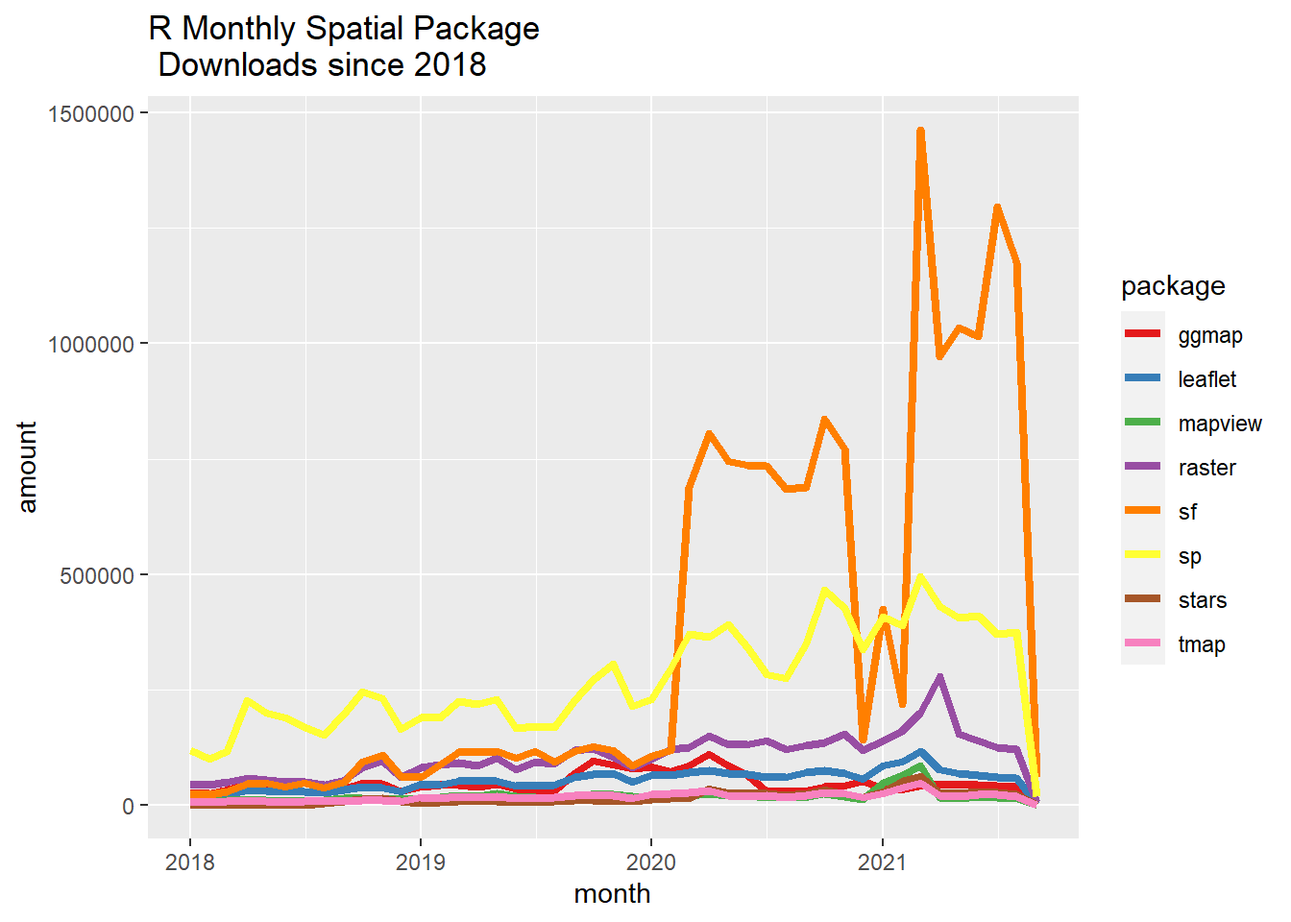
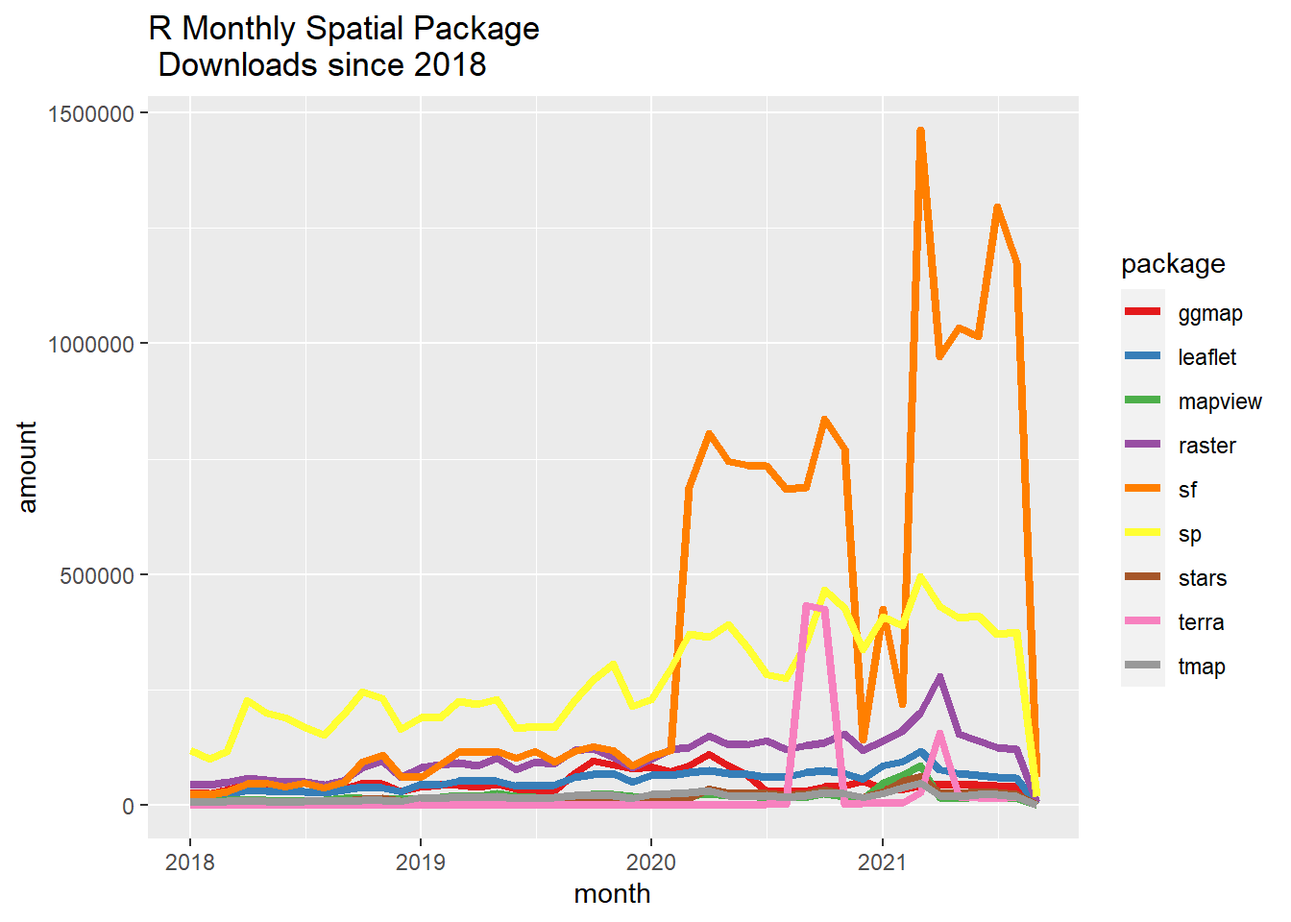
updated sf section

Changed region(s): [[0.8438, 0.2812, 1.0, 0.75], [0.1562, 0.6562, 0.8125, 0.875]]

diff --git a/docs/vector-data-with-sf.html b/docs/vector-data-with-sf.html
@@ -24,7 +24,7 @@
 <meta name="author" content="Marc Weber" />
 
 
-<meta name="date" content="2021-09-19" />
+<meta name="date" content="2021-09-22" />
 
   <meta name="viewport" content="width=device-width, initial-scale=1" />
   <meta name="apple-mobile-web-app-capable" content="yes" />
@@ -198,27 +198,28 @@ code span.wa { color: #60a0b0; font-weight: bold; font-style: italic; } /* Warni
 <li class="chapter" data-level="2.1.4" data-path="reading-in-spatial-data.html"><a href="reading-in-spatial-data.html#open-spatial-data-sources"><i class="fa fa-check"></i><b>2.1.4</b> Open spatial data sources</a></li>
 <li class="chapter" data-level="2.1.5" data-path="reading-in-spatial-data.html"><a href="reading-in-spatial-data.html#spatial-data-from-r-packages"><i class="fa fa-check"></i><b>2.1.5</b> Spatial data from R packages</a></li>
 <li class="chapter" data-level="2.1.6" data-path="reading-in-spatial-data.html"><a href="reading-in-spatial-data.html#read-in-openstreetmap-data"><i class="fa fa-check"></i><b>2.1.6</b> Read in OpenStreetMap data</a></li>
-<li class="chapter" data-level="2.1.7" data-path="reading-in-spatial-data.html"><a href="reading-in-spatial-data.html#raster-data"><i class="fa fa-check"></i><b>2.1.7</b> Raster data</a></li>
-<li class="chapter" data-level="2.1.8" data-path="reading-in-spatial-data.html"><a href="reading-in-spatial-data.html#raster-package"><i class="fa fa-check"></i><b>2.1.8</b> <code>raster</code> package</a></li>
-<li class="chapter" data-level="2.1.9" data-path="reading-in-spatial-data.html"><a href="reading-in-spatial-data.html#terra-package"><i class="fa fa-check"></i><b>2.1.9</b> <code>terra</code> package</a></li>
-<li class="chapter" data-level="2.1.10" data-path="reading-in-spatial-data.html"><a href="reading-in-spatial-data.html#stars-package"><i class="fa fa-check"></i><b>2.1.10</b> <code>stars</code> package</a></li>
-<li class="chapter" data-level="2.1.11" data-path="reading-in-spatial-data.html"><a href="reading-in-spatial-data.html#convert-flat-files-to-spatial"><i class="fa fa-check"></i><b>2.1.11</b> Convert flat files to spatial</a></li>
 </ul></li>
+<li class="chapter" data-level="2.2" data-path="reading-in-spatial-data.html"><a href="reading-in-spatial-data.html#raster-data"><i class="fa fa-check"></i><b>2.2</b> Raster data</a>
+<ul>
+<li class="chapter" data-level="2.2.1" data-path="reading-in-spatial-data.html"><a href="reading-in-spatial-data.html#raster-package"><i class="fa fa-check"></i><b>2.2.1</b> <code>raster</code> package</a></li>
+<li class="chapter" data-level="2.2.2" data-path="reading-in-spatial-data.html"><a href="reading-in-spatial-data.html#terra-package"><i class="fa fa-check"></i><b>2.2.2</b> <code>terra</code> package</a></li>
+<li class="chapter" data-level="2.2.3" data-path="reading-in-spatial-data.html"><a href="reading-in-spatial-data.html#stars-package"><i class="fa fa-check"></i><b>2.2.3</b> <code>stars</code> package</a></li>
+</ul></li>
+<li class="chapter" data-level="2.3" data-path="reading-in-spatial-data.html"><a href="reading-in-spatial-data.html#convert-flat-files-to-spatial"><i class="fa fa-check"></i><b>2.3</b> Convert flat files to spatial</a></li>
 </ul></li>
 <li class="chapter" data-level="3" data-path="coordinate-reference-systems.html"><a href="coordinate-reference-systems.html"><i class="fa fa-check"></i><b>3</b> Coordinate reference systems</a>
 <ul>
-<li class="chapter" data-level="3.1" data-path="coordinate-reference-systems.html"><a href="coordinate-reference-systems.html#lesson-objectives"><i class="fa fa-check"></i><b>3.1</b> Lesson Objectives</a>
-<ul>
-<li class="chapter" data-level="3.1.1" data-path="coordinate-reference-systems.html"><a href="coordinate-reference-systems.html#why-you-need-to-know-about-crs-working-with-spatial-data-in-r"><i class="fa fa-check"></i><b>3.1.1</b> Why you need to know about CRS working with spatial data in R:</a></li>
-<li class="chapter" data-level="3.1.2" data-path="coordinate-reference-systems.html"><a href="coordinate-reference-systems.html#changes-to-crs-recently-in-r-in-sf"><i class="fa fa-check"></i><b>3.1.2</b> Changes to CRS recently in R in <code>sf</code></a></li>
-<li class="chapter" data-level="3.1.3" data-path="coordinate-reference-systems.html"><a href="coordinate-reference-systems.html#projected-coordinate-systems"><i class="fa fa-check"></i><b>3.1.3</b> Projected coordinate systems</a></li>
-</ul></li>
+<li class="chapter" data-level="3.1" data-path="coordinate-reference-systems.html"><a href="coordinate-reference-systems.html#lesson-objectives"><i class="fa fa-check"></i><b>3.1</b> Lesson Objectives</a></li>
+<li class="chapter" data-level="3.2" data-path="coordinate-reference-systems.html"><a href="coordinate-reference-systems.html#why-you-need-to-know-about-crs-working-with-spatial-data-in-r"><i class="fa fa-check"></i><b>3.2</b> Why you need to know about CRS working with spatial data in R:</a></li>
+<li class="chapter" data-level="3.3" data-path="coordinate-reference-systems.html"><a href="coordinate-reference-systems.html#changes-to-crs-recently-in-r-in-sf"><i class="fa fa-check"></i><b>3.3</b> Changes to CRS recently in R in <code>sf</code></a></li>
+<li class="chapter" data-level="3.4" data-path="coordinate-reference-systems.html"><a href="coordinate-reference-systems.html#projected-coordinate-systems"><i class="fa fa-check"></i><b>3.4</b> Projected coordinate systems</a></li>
 </ul></li>
 <li class="chapter" data-level="4" data-path="vector-data-with-sf.html"><a href="vector-data-with-sf.html"><i class="fa fa-check"></i><b>4</b> Vector data with <code>sf</code></a>
 <ul>
-<li class="chapter" data-level="4.0.1" data-path="vector-data-with-sf.html"><a href="vector-data-with-sf.html#sf-methods"><i class="fa fa-check"></i><b>4.0.1</b> <code>sf</code> Methods</a></li>
-<li class="chapter" data-level="4.0.2" data-path="vector-data-with-sf.html"><a href="vector-data-with-sf.html#exploring-sf"><i class="fa fa-check"></i><b>4.0.2</b> Exploring <code>sf</code></a></li>
-<li class="chapter" data-level="4.1" data-path="vector-data-with-sf.html"><a href="vector-data-with-sf.html#units-in-sf"><i class="fa fa-check"></i><b>4.1</b> Units in <code>sf</code></a></li>
+<li class="chapter" data-level="4.1" data-path="vector-data-with-sf.html"><a href="vector-data-with-sf.html#sf-methods"><i class="fa fa-check"></i><b>4.1</b> <code>sf</code> Methods</a></li>
+<li class="chapter" data-level="4.2" data-path="vector-data-with-sf.html"><a href="vector-data-with-sf.html#exploring-sf"><i class="fa fa-check"></i><b>4.2</b> Exploring <code>sf</code></a></li>
+<li class="chapter" data-level="4.3" data-path="vector-data-with-sf.html"><a href="vector-data-with-sf.html#converting-other-object-types-to-sf"><i class="fa fa-check"></i><b>4.3</b> Converting other object types to <code>sf</code></a></li>
+<li class="chapter" data-level="4.4" data-path="vector-data-with-sf.html"><a href="vector-data-with-sf.html#units-in-sf"><i class="fa fa-check"></i><b>4.4</b> Units in <code>sf</code></a></li>
 </ul></li>
 <li class="chapter" data-level="5" data-path="raster-data-1.html"><a href="raster-data-1.html"><i class="fa fa-check"></i><b>5</b> Raster data</a>
 <ul>
@@ -235,14 +236,17 @@ code span.wa { color: #60a0b0; font-weight: bold; font-style: italic; } /* Warni
 <ul>
 <li class="chapter" data-level="5.2.1" data-path="raster-data-1.html"><a href="raster-data-1.html#read-a-satellite-image"><i class="fa fa-check"></i><b>5.2.1</b> Read a satellite image</a></li>
 </ul></li>
+<li class="chapter" data-level="5.3" data-path="raster-data-1.html"><a href="raster-data-1.html#raster-operations"><i class="fa fa-check"></i><b>5.3</b> Raster Operations</a>
+<ul>
+<li class="chapter" data-level="5.3.1" data-path="raster-data-1.html"><a href="raster-data-1.html#projecting"><i class="fa fa-check"></i><b>5.3.1</b> Projecting</a></li>
+<li class="chapter" data-level="5.3.2" data-path="raster-data-1.html"><a href="raster-data-1.html#cropping"><i class="fa fa-check"></i><b>5.3.2</b> Cropping</a></li>
+<li class="chapter" data-level="5.3.3" data-path="raster-data-1.html"><a href="raster-data-1.html#map-algebra"><i class="fa fa-check"></i><b>5.3.3</b> Map Algebra</a></li>
+</ul></li>
 </ul></li>
 <li class="chapter" data-level="6" data-path="geoprocessing.html"><a href="geoprocessing.html"><i class="fa fa-check"></i><b>6</b> Geoprocessing</a>
 <ul>
 <li class="chapter" data-level="6.1" data-path="geoprocessing.html"><a href="geoprocessing.html#lesson-goals"><i class="fa fa-check"></i><b>6.1</b> Lesson Goals</a></li>
-<li class="chapter" data-level="6.2" data-path="geoprocessing.html"><a href="geoprocessing.html#example-one"><i class="fa fa-check"></i><b>6.2</b> Example one</a>
-<ul>
-<li class="chapter" data-level="6.2.1" data-path="geoprocessing.html"><a href="geoprocessing.html#spatial-subsetting"><i class="fa fa-check"></i><b>6.2.1</b> Spatial Subsetting</a></li>
-</ul></li>
+<li class="chapter" data-level="6.2" data-path="geoprocessing.html"><a href="geoprocessing.html#spatial-subsetting"><i class="fa fa-check"></i><b>6.2</b> Spatial Subsetting</a></li>
 <li class="chapter" data-level="6.3" data-path="geoprocessing.html"><a href="geoprocessing.html#spatial-join"><i class="fa fa-check"></i><b>6.3</b> Spatial Join</a></li>
 <li class="chapter" data-level="6.4" data-path="geoprocessing.html"><a href="geoprocessing.html#dissolve"><i class="fa fa-check"></i><b>6.4</b> Dissolve</a></li>
 <li class="chapter" data-level="6.5" data-path="geoprocessing.html"><a href="geoprocessing.html#spatial-overlap"><i class="fa fa-check"></i><b>6.5</b> Spatial Overlap</a>
@@ -250,9 +254,17 @@ code span.wa { color: #60a0b0; font-weight: bold; font-style: italic; } /* Warni
 <li class="chapter" data-level="6.5.1" data-path="geoprocessing.html"><a href="geoprocessing.html#next-well-create-a-dummy-spatial-polygon-file-to-compare-area-with-using-the-rmapshaper-package-to-simplify-the-border-of-the-pdx-metropolitan-polygon"><i class="fa fa-check"></i><b>6.5.1</b> Next we’ll create a dummy spatial polygon file to compare area with using the <code>rmapshaper</code> package to simplify the border of the PDX metropolitan polygon</a></li>
 <li class="chapter" data-level="6.5.2" data-path="geoprocessing.html"><a href="geoprocessing.html#then-we-can-overlay-polygons-in-ggplot-to-see-how-similar-they-are-showing-the-original-census-pdx-metropolitan-area-in-green-and-new-simplified-polygon-in-red"><i class="fa fa-check"></i><b>6.5.2</b> Then we can overlay polygons in ggplot to see how similar they are, showing the original census PDX metropolitan area in green, and new simplified polygon in red</a></li>
 <li class="chapter" data-level="6.5.3" data-path="geoprocessing.html"><a href="geoprocessing.html#now-that-we-have-an-original-and-simplified-polygon-to-compare-the-process-we-want-to-use-is"><i class="fa fa-check"></i><b>6.5.3</b> Now that we have an original and simplified polygon to compare, the process we want to use is:</a></li>
-<li class="chapter" data-level="6.5.4" data-path="geoprocessing.html"><a href="geoprocessing.html#challenge"><i class="fa fa-check"></i><b>6.5.4</b> Challenge</a></li>
-<li class="chapter" data-level="6.5.5" data-path="geoprocessing.html"><a href="geoprocessing.html#challenge-1"><i class="fa fa-check"></i><b>6.5.5</b> Challenge</a></li>
+<li class="chapter" data-level="6.5.4" data-path="geoprocessing.html"><a href="geoprocessing.html#exercise-8"><i class="fa fa-check"></i><b>6.5.4</b> Exercise</a></li>
+<li class="chapter" data-level="6.5.5" data-path="geoprocessing.html"><a href="geoprocessing.html#solution-8"><i class="fa fa-check"></i><b>6.5.5</b> Solution</a></li>
+<li class="chapter" data-level="6.5.6" data-path="geoprocessing.html"><a href="geoprocessing.html#exercise-9"><i class="fa fa-check"></i><b>6.5.6</b> Exercise</a></li>
 </ul></li>
+<li class="chapter" data-level="6.6" data-path="geoprocessing.html"><a href="geoprocessing.html#deriving-data-for-a-sites-or-a-watershed"><i class="fa fa-check"></i><b>6.6</b> Deriving data for a sites or a watershed</a>
+<ul>
+<li class="chapter" data-level="6.6.1" data-path="geoprocessing.html"><a href="geoprocessing.html#extract-using-sites"><i class="fa fa-check"></i><b>6.6.1</b> Extract using sites</a></li>
+<li class="chapter" data-level="6.6.2" data-path="geoprocessing.html"><a href="geoprocessing.html#river-reaches-and-basin"><i class="fa fa-check"></i><b>6.6.2</b> River reaches and basin</a></li>
+<li class="chapter" data-level="6.6.3" data-path="geoprocessing.html"><a href="geoprocessing.html#streamcat-data-for-watershed"><i class="fa fa-check"></i><b>6.6.3</b> StreamCat data for watershed</a></li>
+</ul></li>
+<li class="chapter" data-level="6.7" data-path="geoprocessing.html"><a href="geoprocessing.html#extract"><i class="fa fa-check"></i><b>6.7</b> Extract</a></li>
 </ul></li>
 <li class="chapter" data-level="7" data-path="visualizing-spatial-data.html"><a href="visualizing-spatial-data.html"><i class="fa fa-check"></i><b>7</b> Visualizing Spatial Data</a>
 <ul>
@@ -262,13 +274,21 @@ code span.wa { color: #60a0b0; font-weight: bold; font-style: italic; } /* Warni
 <li class="chapter" data-level="7.4" data-path="visualizing-spatial-data.html"><a href="visualizing-spatial-data.html#mapview"><i class="fa fa-check"></i><b>7.4</b> <code>mapview</code></a></li>
 <li class="chapter" data-level="7.5" data-path="visualizing-spatial-data.html"><a href="visualizing-spatial-data.html#visualize-site-data"><i class="fa fa-check"></i><b>7.5</b> Visualize site data</a></li>
 </ul></li>
-<li class="chapter" data-level="" data-path="references.html"><a href="references.html"><i class="fa fa-check"></i>References</a>
+<li class="chapter" data-level="8" data-path="extensions-to-work-with-gis-software-in-r.html"><a href="extensions-to-work-with-gis-software-in-r.html"><i class="fa fa-check"></i><b>8</b> Extensions to work with GIS software in R</a>
 <ul>
-<li class="chapter" data-level="7.5.1" data-path="references.html"><a href="references.html#r-spatial-resources"><i class="fa fa-check"></i><b>7.5.1</b> R Spatial Resources</a></li>
-<li class="chapter" data-level="7.5.2" data-path="references.html"><a href="references.html#r-vector-processing-simple-features-resources"><i class="fa fa-check"></i><b>7.5.2</b> R Vector Processing / Simple Features Resources</a></li>
-<li class="chapter" data-level="7.5.3" data-path="references.html"><a href="references.html#r-raster-resources"><i class="fa fa-check"></i><b>7.5.3</b> R Raster Resources</a></li>
-<li class="chapter" data-level="7.5.4" data-path="references.html"><a href="references.html#r-mapping-resources"><i class="fa fa-check"></i><b>7.5.4</b> R Mapping Resources</a></li>
-<li class="chapter" data-level="7.5.5" data-path="references.html"><a href="references.html#general-r-resources"><i class="fa fa-check"></i><b>7.5.5</b> General R Resources</a></li>
+<li class="chapter" data-level="8.1" data-path="extensions-to-work-with-gis-software-in-r.html"><a href="extensions-to-work-with-gis-software-in-r.html#rqgis"><i class="fa fa-check"></i><b>8.1</b> RQGIS</a></li>
+<li class="chapter" data-level="8.2" data-path="extensions-to-work-with-gis-software-in-r.html"><a href="extensions-to-work-with-gis-software-in-r.html#r-arcgis-bridge"><i class="fa fa-check"></i><b>8.2</b> R-ArcGIS bridge</a></li>
+<li class="chapter" data-level="8.3" data-path="extensions-to-work-with-gis-software-in-r.html"><a href="extensions-to-work-with-gis-software-in-r.html#accessing-python-toolbox-using-reticulate"><i class="fa fa-check"></i><b>8.3</b> Accessing Python toolbox using reticulate</a></li>
+<li class="chapter" data-level="8.4" data-path="extensions-to-work-with-gis-software-in-r.html"><a href="extensions-to-work-with-gis-software-in-r.html#r-whitebox-tools"><i class="fa fa-check"></i><b>8.4</b> R Whitebox Tools</a></li>
+<li class="chapter" data-level="8.5" data-path="extensions-to-work-with-gis-software-in-r.html"><a href="extensions-to-work-with-gis-software-in-r.html#rgee"><i class="fa fa-check"></i><b>8.5</b> rgee</a></li>
+</ul></li>
+<li class="chapter" data-level="9" data-path="references.html"><a href="references.html"><i class="fa fa-check"></i><b>9</b> References</a>
+<ul>
+<li class="chapter" data-level="9.1" data-path="references.html"><a href="references.html#r-spatial-resources"><i class="fa fa-check"></i><b>9.1</b> R Spatial Resources</a></li>
+<li class="chapter" data-level="9.2" data-path="references.html"><a href="references.html#r-vector-processing-simple-features-resources"><i class="fa fa-check"></i><b>9.2</b> R Vector Processing / Simple Features Resources</a></li>
+<li class="chapter" data-level="9.3" data-path="references.html"><a href="references.html#r-raster-resources"><i class="fa fa-check"></i><b>9.3</b> R Raster Resources</a></li>
+<li class="chapter" data-level="9.4" data-path="references.html"><a href="references.html#r-mapping-resources"><i class="fa fa-check"></i><b>9.4</b> R Mapping Resources</a></li>
+<li class="chapter" data-level="9.5" data-path="references.html"><a href="references.html#general-r-resources"><i class="fa fa-check"></i><b>9.5</b> General R Resources</a></li>
 </ul></li>
 <li class="divider"></li>
 <li><a href="https://github.com/mhweber/R-User-Group-Spatial-Workshop-2021" target="blank">Published with bookdown</a></li>
@@ -313,8 +333,8 @@ Figure 4.2: Source: <a href="https://www.r-spatial.org/r/2020/03/17/wkt.html" cl
 <p>There is extensive documentation, blog posts and vignettes available for <code>sf</code> here:
 <a href="https://github.com/edzer/sfr">Simple Features for R</a>. Additionally, see <a href="http://r-spatial.org/">r-spatial blog</a> which has numerous announcements, discussion pieces and tutorials on spatial work in R focused.</p>
 <p>A very handy page, if you’re already familiar with the <code>sp</code> ecosystem, is the <a href="https://github.com/r-spatial/sf/wiki/migrating">Migrating</a> page on the <a href="https://github.com/r-spatial/sf/wiki">sf GitHub wiki</a>.</p>
-<div id="sf-methods" class="section level3" number="4.0.1">
-<h3><span class="header-section-number">4.0.1</span> <code>sf</code> Methods</h3>
+<div id="sf-methods" class="section level2" number="4.1">
+<h2><span class="header-section-number">4.1</span> <code>sf</code> Methods</h2>
 <p>Here’s a quick synopsis of available methods in <code>sf</code>:</p>
 <div class="sourceCode" id="cb2"><pre class="sourceCode r"><code class="sourceCode r"><span id="cb2-1"><a href="vector-data-with-sf.html#cb2-1" aria-hidden="true" tabindex="-1"></a><span class="fu">library</span>(sf,<span class="at">quietly =</span> T)</span>
 <span id="cb2-2"><a href="vector-data-with-sf.html#cb2-2" aria-hidden="true" tabindex="-1"></a><span class="fu">methods</span>(<span class="at">class =</span> <span class="st">&#39;sf&#39;</span>)</span></code></pre></div>
@@ -344,10 +364,10 @@ Figure 4.2: Source: <a href="https://www.r-spatial.org/r/2020/03/17/wkt.html" cl
 ## [70] st_zm                 transform            
 ## see &#39;?methods&#39; for accessing help and source code</code></pre>
 </div>
-<div id="exploring-sf" class="section level3" number="4.0.2">
-<h3><span class="header-section-number">4.0.2</span> Exploring <code>sf</code></h3>
-<p>Let’s start exploring <code>sf</code> using some data included in the awra2020spatial package.</p>
-<div class="sourceCode" id="cb4"><pre class="sourceCode r"><code class="sourceCode r"><span id="cb4-1"><a href="vector-data-with-sf.html#cb4-1" aria-hidden="true" tabindex="-1"></a><span class="fu">library</span>(awra2020spatial)</span>
+<div id="exploring-sf" class="section level2" number="4.2">
+<h2><span class="header-section-number">4.2</span> Exploring <code>sf</code></h2>
+<p>Let’s start exploring <code>sf</code> using some data included in the <code>Rspatialworkshop</code> package.</p>
+<div class="sourceCode" id="cb4"><pre class="sourceCode r"><code class="sourceCode r"><span id="cb4-1"><a href="vector-data-with-sf.html#cb4-1" aria-hidden="true" tabindex="-1"></a><span class="fu">library</span>(Rspatialworkshop)</span>
 <span id="cb4-2"><a href="vector-data-with-sf.html#cb4-2" aria-hidden="true" tabindex="-1"></a><span class="fu">data</span>(bike_paths)</span>
 <span id="cb4-3"><a href="vector-data-with-sf.html#cb4-3" aria-hidden="true" tabindex="-1"></a><span class="fu">head</span>(bike_paths[,<span class="fu">c</span>(<span class="st">&#39;ROUTE_CODE&#39;</span>,<span class="st">&#39;ROUTE_NAME&#39;</span>,<span class="st">&#39;geoms&#39;</span>)])</span></code></pre></div>
 <pre><code>## Simple feature collection with 6 features and 2 fields
@@ -380,35 +400,35 @@ Figure 4.2: Source: <a href="https://www.r-spatial.org/r/2020/03/17/wkt.html" cl
 <ul>
 <li>Multipolygon(((list of coordinates))) indicates the exterior ring coordinates, going counter-clockwise in direction, without holes, of the first polygon.</li>
 </ul>
-<p>Generic plotting works on <code>sf</code> objects - take a minute to play with ploting the bike paths data frame - why do we specify <code>$geometry</code> in the plot call?</p>
+<p>Generic plotting works on <code>sf</code> objects - take a minute to play with plotting the bike paths data frame - why do we specify <code>$geometry</code> in the plot call?</p>
 <div class="sourceCode" id="cb7"><pre class="sourceCode r"><code class="sourceCode r"><span id="cb7-1"><a href="vector-data-with-sf.html#cb7-1" aria-hidden="true" tabindex="-1"></a><span class="fu">plot</span>(bike_paths<span class="sc">$</span>geoms, <span class="at">axes=</span>T)</span></code></pre></div>
 <p><img src="R-User-Group-Spatial-Workshop-2021_files/figure-html/sf_plot-1.png" width="672" /></p>
 </div>
-<div id="units-in-sf" class="section level2" number="4.1">
-<h2><span class="header-section-number">4.1</span> Units in <code>sf</code></h2>
+<div id="converting-other-object-types-to-sf" class="section level2" number="4.3">
+<h2><span class="header-section-number">4.3</span> Converting other object types to <code>sf</code></h2>
+<p>We can convert foreign objects (regular data frames with coordinates, sp objects, maps package objects) to sf objects easily.</p>
+<p>Here we convert PNW states in older spatial format in the <code>maps</code> package to <code>sf</code> polygon objects, then read in a .csv of stream gage locations from the <code>Rspatialworkshop</code> package and convert to <code>sf</code> objects.</p>
+<div class="sourceCode" id="cb8"><pre class="sourceCode r"><code class="sourceCode r"><span id="cb8-1"><a href="vector-data-with-sf.html#cb8-1" aria-hidden="true" tabindex="-1"></a><span class="fu">library</span>(readr)</span>
+<span id="cb8-2"><a href="vector-data-with-sf.html#cb8-2" aria-hidden="true" tabindex="-1"></a>states <span class="ot">&lt;-</span> sf<span class="sc">::</span><span class="fu">st_as_sf</span>(maps<span class="sc">::</span><span class="fu">map</span>(<span class="st">&quot;state&quot;</span>,  <span class="at">region =</span> <span class="fu">c</span>(<span class="st">&#39;oregon&#39;</span>, <span class="st">&#39;washington&#39;</span>, <span class="st">&#39;idaho&#39;</span>), <span class="at">plot =</span> <span class="cn">FALSE</span>, <span class="at">fill =</span> <span class="cn">TRUE</span>))</span>
+<span id="cb8-3"><a href="vector-data-with-sf.html#cb8-3" aria-hidden="true" tabindex="-1"></a>fpath <span class="ot">&lt;-</span> <span class="fu">system.file</span>(<span class="st">&quot;extdata&quot;</span>, <span class="st">&quot;Gages_flowdata.csv&quot;</span>, <span class="at">package=</span><span class="st">&quot;Rspatialworkshop&quot;</span>)</span>
+<span id="cb8-4"><a href="vector-data-with-sf.html#cb8-4" aria-hidden="true" tabindex="-1"></a>gages <span class="ot">&lt;-</span> <span class="fu">read_csv</span>(fpath,<span class="at">show_col_types =</span> <span class="cn">FALSE</span>)</span>
+<span id="cb8-5"><a href="vector-data-with-sf.html#cb8-5" aria-hidden="true" tabindex="-1"></a>gages <span class="ot">&lt;-</span> gages <span class="sc">%&gt;%</span> </span>
+<span id="cb8-6"><a href="vector-data-with-sf.html#cb8-6" aria-hidden="true" tabindex="-1"></a>  <span class="fu">st_as_sf</span>(<span class="at">coords =</span> <span class="fu">c</span>(<span class="st">&quot;LON_SITE&quot;</span>, <span class="st">&quot;LAT_SITE&quot;</span>), <span class="at">crs=</span><span class="dv">4269</span>)</span>
+<span id="cb8-7"><a href="vector-data-with-sf.html#cb8-7" aria-hidden="true" tabindex="-1"></a><span class="fu">plot</span>(states<span class="sc">$</span>geom, <span class="at">axes=</span><span class="cn">TRUE</span>)</span>
+<span id="cb8-8"><a href="vector-data-with-sf.html#cb8-8" aria-hidden="true" tabindex="-1"></a><span class="fu">plot</span>(gages<span class="sc">$</span>geometry, <span class="at">add=</span><span class="cn">TRUE</span>, <span class="at">col=</span><span class="st">&#39;blue&#39;</span>)</span>
+<span id="cb8-9"><a href="vector-data-with-sf.html#cb8-9" aria-hidden="true" tabindex="-1"></a><span class="fu">title</span>(<span class="at">main=</span><span class="st">&#39;StreamGages and PNW </span><span class="sc">\n</span><span class="st"> State Boundaries&#39;</span>)</span></code></pre></div>
+<p><img src="R-User-Group-Spatial-Workshop-2021_files/figure-html/create_sf-1.png" width="672" /></p>
+</div>
+<div id="units-in-sf" class="section level2" number="4.4">
+<h2><span class="header-section-number">4.4</span> Units in <code>sf</code></h2>
 <p>The <code>crs</code> in <code>sf</code> encodes the units of measure in information relating to spatial units of features - this can be both handy and very confusing for those new to it. Consider the following:</p>
-<div class="sourceCode" id="cb8"><pre class="sourceCode r"><code class="sourceCode r"><span id="cb8-1"><a href="vector-data-with-sf.html#cb8-1" aria-hidden="true" tabindex="-1"></a>(<span class="fu">sum</span>(<span class="fu">st_length</span>(bike_paths)))</span></code></pre></div>
-<pre><code>## old-style crs object detected; please recreate object with a recent sf::st_crs()
-## old-style crs object detected; please recreate object with a recent sf::st_crs()
-## old-style crs object detected; please recreate object with a recent sf::st_crs()
-## old-style crs object detected; please recreate object with a recent sf::st_crs()
-## old-style crs object detected; please recreate object with a recent sf::st_crs()</code></pre>
+<div class="sourceCode" id="cb9"><pre class="sourceCode r"><code class="sourceCode r"><span id="cb9-1"><a href="vector-data-with-sf.html#cb9-1" aria-hidden="true" tabindex="-1"></a>(<span class="fu">sum</span>(<span class="fu">st_length</span>(bike_paths)))</span></code></pre></div>
 <pre><code>## 3458778 [m]</code></pre>
 <p>We can set units if we do manipulations as well using the <code>units</code> package</p>
 <div class="sourceCode" id="cb11"><pre class="sourceCode r"><code class="sourceCode r"><span id="cb11-1"><a href="vector-data-with-sf.html#cb11-1" aria-hidden="true" tabindex="-1"></a>units<span class="sc">::</span><span class="fu">set_units</span>(<span class="fu">sum</span>(<span class="fu">st_length</span>(bike_paths)),km)</span></code></pre></div>
-<pre><code>## old-style crs object detected; please recreate object with a recent sf::st_crs()
-## old-style crs object detected; please recreate object with a recent sf::st_crs()
-## old-style crs object detected; please recreate object with a recent sf::st_crs()
-## old-style crs object detected; please recreate object with a recent sf::st_crs()
-## old-style crs object detected; please recreate object with a recent sf::st_crs()</code></pre>
 <pre><code>## 3458.778 [km]</code></pre>
 <p>If we need to use the value elsewhere get rid of units</p>
-<div class="sourceCode" id="cb14"><pre class="sourceCode r"><code class="sourceCode r"><span id="cb14-1"><a href="vector-data-with-sf.html#cb14-1" aria-hidden="true" tabindex="-1"></a><span class="fu">as.numeric</span>(<span class="fu">sum</span>(<span class="fu">st_length</span>(bike_paths)))</span></code></pre></div>
-<pre><code>## old-style crs object detected; please recreate object with a recent sf::st_crs()
-## old-style crs object detected; please recreate object with a recent sf::st_crs()
-## old-style crs object detected; please recreate object with a recent sf::st_crs()
-## old-style crs object detected; please recreate object with a recent sf::st_crs()
-## old-style crs object detected; please recreate object with a recent sf::st_crs()</code></pre>
+<div class="sourceCode" id="cb13"><pre class="sourceCode r"><code class="sourceCode r"><span id="cb13-1"><a href="vector-data-with-sf.html#cb13-1" aria-hidden="true" tabindex="-1"></a><span class="fu">as.numeric</span>(<span class="fu">sum</span>(<span class="fu">st_length</span>(bike_paths)))</span></code></pre></div>
 <pre><code>## [1] 3458778</code></pre>
 
 </div>

diff --git a/docs/index.html b/docs/index.html
@@ -281,13 +281,13 @@ code span.wa { color: #60a0b0; font-weight: bold; font-style: italic; } /* Warni
 <li class="chapter" data-level="8.4" data-path="extensions-to-work-with-gis-software-in-r.html"><a href="extensions-to-work-with-gis-software-in-r.html#r-whitebox-tools"><i class="fa fa-check"></i><b>8.4</b> R Whitebox Tools</a></li>
 <li class="chapter" data-level="8.5" data-path="extensions-to-work-with-gis-software-in-r.html"><a href="extensions-to-work-with-gis-software-in-r.html#rgee"><i class="fa fa-check"></i><b>8.5</b> rgee</a></li>
 </ul></li>
-<li class="chapter" data-level="" data-path="references.html"><a href="references.html"><i class="fa fa-check"></i>References</a>
+<li class="chapter" data-level="9" data-path="references.html"><a href="references.html"><i class="fa fa-check"></i><b>9</b> References</a>
 <ul>
-<li class="chapter" data-level="8.5.1" data-path="references.html"><a href="references.html#r-spatial-resources"><i class="fa fa-check"></i><b>8.5.1</b> R Spatial Resources</a></li>
-<li class="chapter" data-level="8.5.2" data-path="references.html"><a href="references.html#r-vector-processing-simple-features-resources"><i class="fa fa-check"></i><b>8.5.2</b> R Vector Processing / Simple Features Resources</a></li>
-<li class="chapter" data-level="8.5.3" data-path="references.html"><a href="references.html#r-raster-resources"><i class="fa fa-check"></i><b>8.5.3</b> R Raster Resources</a></li>
-<li class="chapter" data-level="8.5.4" data-path="references.html"><a href="references.html#r-mapping-resources"><i class="fa fa-check"></i><b>8.5.4</b> R Mapping Resources</a></li>
-<li class="chapter" data-level="8.5.5" data-path="references.html"><a href="references.html#general-r-resources"><i class="fa fa-check"></i><b>8.5.5</b> General R Resources</a></li>
+<li class="chapter" data-level="9.1" data-path="references.html"><a href="references.html#r-spatial-resources"><i class="fa fa-check"></i><b>9.1</b> R Spatial Resources</a></li>
+<li class="chapter" data-level="9.2" data-path="references.html"><a href="references.html#r-vector-processing-simple-features-resources"><i class="fa fa-check"></i><b>9.2</b> R Vector Processing / Simple Features Resources</a></li>
+<li class="chapter" data-level="9.3" data-path="references.html"><a href="references.html#r-raster-resources"><i class="fa fa-check"></i><b>9.3</b> R Raster Resources</a></li>
+<li class="chapter" data-level="9.4" data-path="references.html"><a href="references.html#r-mapping-resources"><i class="fa fa-check"></i><b>9.4</b> R Mapping Resources</a></li>
+<li class="chapter" data-level="9.5" data-path="references.html"><a href="references.html#general-r-resources"><i class="fa fa-check"></i><b>9.5</b> General R Resources</a></li>
 </ul></li>
 <li class="divider"></li>
 <li><a href="https://github.com/mhweber/R-User-Group-Spatial-Workshop-2021" target="blank">Published with bookdown</a></li>
@@ -713,16 +713,17 @@ Figure 1.3: Raster Data
 <h3><span class="header-section-number">1.7.5</span> Solution</h3>
 <div class="sourceCode" id="cb36"><pre class="sourceCode r"><code class="sourceCode r"><span id="cb36-1"><a href="index.html#cb36-1" aria-hidden="true" tabindex="-1"></a><span class="co"># devtools::install_github(&quot;metacran/cranlogs&quot;)</span></span>
 <span id="cb36-2"><a href="index.html#cb36-2" aria-hidden="true" tabindex="-1"></a><span class="fu">library</span>(cranlogs, <span class="at">quietly =</span> T)</span>
-<span id="cb36-3"><a href="index.html#cb36-3" aria-hidden="true" tabindex="-1"></a><span class="fu">library</span>(ggplot2, <span class="at">quietly =</span> T)</span>
-<span id="cb36-4"><a href="index.html#cb36-4" aria-hidden="true" tabindex="-1"></a><span class="fu">library</span>(lubridate, <span class="at">quietly =</span> T)</span>
-<span id="cb36-5"><a href="index.html#cb36-5" aria-hidden="true" tabindex="-1"></a><span class="fu">library</span>(dplyr, <span class="at">quietly =</span> T)</span>
-<span id="cb36-6"><a href="index.html#cb36-6" aria-hidden="true" tabindex="-1"></a><span class="fu">options</span>(<span class="at">scipen=</span><span class="dv">3</span>)</span>
-<span id="cb36-7"><a href="index.html#cb36-7" aria-hidden="true" tabindex="-1"></a>stats <span class="ot">&lt;-</span> <span class="fu">cran_downloads</span>(<span class="at">from =</span> <span class="st">&quot;2018-01-01&quot;</span>, <span class="at">to =</span> <span class="st">&quot;2020-04-01&quot;</span>,<span class="at">packages =</span> <span class="fu">c</span>(<span class="st">&quot;sp&quot;</span>, <span class="st">&quot;sf&quot;</span>, <span class="st">&quot;raster&quot;</span>, <span class="st">&quot;tmap&quot;</span>, <span class="st">&quot;mapview&quot;</span>, <span class="st">&quot;leaflet&quot;</span>, <span class="st">&quot;ggmap&quot;</span>, <span class="st">&quot;stars&quot;</span>))</span>
-<span id="cb36-8"><a href="index.html#cb36-8" aria-hidden="true" tabindex="-1"></a></span>
-<span id="cb36-9"><a href="index.html#cb36-9" aria-hidden="true" tabindex="-1"></a>monthly_stats <span class="ot">&lt;-</span> stats <span class="sc">%&gt;%</span> </span>
-<span id="cb36-10"><a href="index.html#cb36-10" aria-hidden="true" tabindex="-1"></a>  <span class="fu">group_by</span>(<span class="at">month=</span><span class="fu">floor_date</span>(date, <span class="st">&quot;month&quot;</span>), package) <span class="sc">%&gt;%</span></span>
-<span id="cb36-11"><a href="index.html#cb36-11" aria-hidden="true" tabindex="-1"></a>  <span class="fu">summarize</span>(<span class="at">amount=</span><span class="fu">sum</span>(count))</span>
-<span id="cb36-12"><a href="index.html#cb36-12" aria-hidden="true" tabindex="-1"></a><span class="fu">ggplot</span>(monthly_stats, <span class="fu">aes</span>(<span class="at">x=</span>month, <span class="at">y=</span>amount, <span class="at">group =</span> package, <span class="at">colour =</span> package)) <span class="sc">+</span> <span class="fu">geom_line</span>(<span class="at">size=</span><span class="fl">1.5</span>) <span class="sc">+</span> <span class="fu">scale_colour_brewer</span>(<span class="at">palette=</span><span class="st">&quot;Set1&quot;</span>) <span class="sc">+</span> <span class="fu">ggtitle</span>(<span class="st">&quot;R Monthly Spatial Package </span><span class="sc">\n</span><span class="st"> Downloads since 2018&quot;</span>)</span></code></pre></div>
+<span id="cb36-3"><a href="index.html#cb36-3" aria-hidden="true" tabindex="-1"></a><span class="fu">library</span>(cranlogs, <span class="at">quietly =</span> T)</span>
+<span id="cb36-4"><a href="index.html#cb36-4" aria-hidden="true" tabindex="-1"></a><span class="fu">library</span>(ggplot2, <span class="at">quietly =</span> T)</span>
+<span id="cb36-5"><a href="index.html#cb36-5" aria-hidden="true" tabindex="-1"></a><span class="fu">library</span>(lubridate, <span class="at">quietly =</span> T)</span>
+<span id="cb36-6"><a href="index.html#cb36-6" aria-hidden="true" tabindex="-1"></a><span class="fu">library</span>(dplyr, <span class="at">quietly =</span> T)</span>
+<span id="cb36-7"><a href="index.html#cb36-7" aria-hidden="true" tabindex="-1"></a><span class="fu">options</span>(<span class="at">scipen=</span><span class="dv">3</span>)</span>
+<span id="cb36-8"><a href="index.html#cb36-8" aria-hidden="true" tabindex="-1"></a>stats <span class="ot">&lt;-</span> <span class="fu">cran_downloads</span>(<span class="at">from =</span> <span class="st">&quot;2018-01-01&quot;</span>, <span class="at">to =</span> <span class="st">&quot;2021-09-01&quot;</span>,<span class="at">packages =</span> <span class="fu">c</span>(<span class="st">&quot;sp&quot;</span>, <span class="st">&quot;sf&quot;</span>, <span class="st">&quot;raster&quot;</span>, <span class="st">&quot;tmap&quot;</span>, <span class="st">&quot;mapview&quot;</span>, <span class="st">&quot;leaflet&quot;</span>,<span class="st">&quot;ggmap&quot;</span>, <span class="st">&quot;stars&quot;</span>, <span class="st">&quot;terra&quot;</span>))</span>
+<span id="cb36-9"><a href="index.html#cb36-9" aria-hidden="true" tabindex="-1"></a></span>
+<span id="cb36-10"><a href="index.html#cb36-10" aria-hidden="true" tabindex="-1"></a>monthly_stats <span class="ot">&lt;-</span> stats <span class="sc">%&gt;%</span> </span>
+<span id="cb36-11"><a href="index.html#cb36-11" aria-hidden="true" tabindex="-1"></a>  <span class="fu">group_by</span>(<span class="at">month=</span><span class="fu">floor_date</span>(date, <span class="st">&quot;month&quot;</span>), package) <span class="sc">%&gt;%</span></span>
+<span id="cb36-12"><a href="index.html#cb36-12" aria-hidden="true" tabindex="-1"></a>  <span class="fu">summarize</span>(<span class="at">amount=</span><span class="fu">sum</span>(count))</span>
+<span id="cb36-13"><a href="index.html#cb36-13" aria-hidden="true" tabindex="-1"></a><span class="fu">ggplot</span>(monthly_stats, <span class="fu">aes</span>(<span class="at">x=</span>month, <span class="at">y=</span>amount, <span class="at">group =</span> package, <span class="at">colour =</span> package)) <span class="sc">+</span> <span class="fu">geom_line</span>(<span class="at">size=</span><span class="fl">1.5</span>) <span class="sc">+</span> <span class="fu">scale_colour_brewer</span>(<span class="at">palette=</span><span class="st">&quot;Set1&quot;</span>) <span class="sc">+</span> <span class="fu">ggtitle</span>(<span class="st">&quot;R Monthly Spatial Package </span><span class="sc">\n</span><span class="st"> Downloads since 2018&quot;</span>)</span></code></pre></div>
 </div>
 <div id="primary-r-spatial-packages" class="section level3" number="1.7.6">
 <h3><span class="header-section-number">1.7.6</span> Primary R spatial packages</h3>
